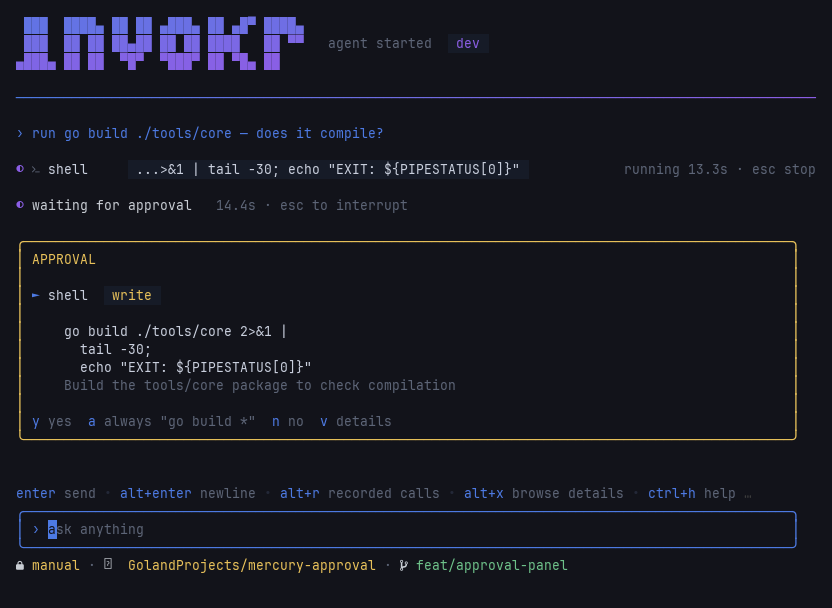
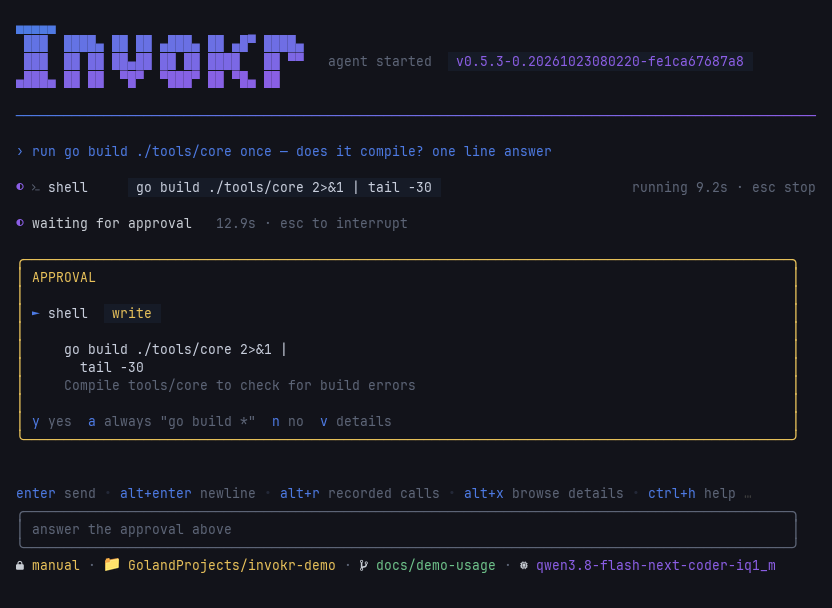
docs: re-record the README demo with the /usage panel (#26)
* docs(record): walk the /usage panel rows in the demo

* docs(record): handle CSI REP so overlays render, add a quick usage timeline

* docs: re-record the README demo with the /usage panel

* docs: mention /usage in the demo alt text

* docs(record): draw colour emoji from Noto Color Emoji

* docs: re-record the demo with the aligned /usage panel

diff --git a/docs/assets/record/record.py b/docs/assets/record/record.py
@@ -42,6 +42,11 @@ FONT_PATH = "/usr/share/fonts/TTF/JetBrainsMonoNerdFontMono-Regular.ttf"
 # .notdef box. Anything monospace that does have it works as a stand-in for the
 # handful of characters in that position.
 FALLBACK_FONT_PATH = "/usr/share/fonts/TTF/FiraCodeNerdFontMono-Regular.ttf"
+# Emoji in the status bar (📁 and friends) are in neither mono font. Noto Color
+# Emoji is a bitmap font that only loads at 109px, so its glyphs are drawn at
+# that size and scaled down into the cell.
+EMOJI_FONT_PATH = "/usr/share/fonts/noto/NotoColorEmoji.ttf"
+EMOJI_SIZE = 109
 FONT_SIZE = 13
 PAD = 16
 FRAME_MS = 100  # sample rate; a shared palette keeps even this cheap
@@ -101,8 +106,22 @@ SCRIPTS = {
         # those rows (a real terminal does not), so the demo skips past the
         # popup rather than pausing on a frame that misrenders here.
         (1.4, "/usage\r", True),         # run it
-        (5.0, None, True),                 # the per-category token breakdown, open
+        (2.5, None, True),                 # the per-category token breakdown, open
+        (0.9, "j", True),                  # walk the rows: the bar follows the cursor
+        (0.9, "j", True),
+        (0.9, "j", True),
+        (2.5, "j", True),                  # into history: the other group lights up
     ], 20.0),                              # still: the approval panel, open
+    # One tiny turn, then /usage: a quick check of how the panel renders.
+    "usage": ([
+        (2.0, None, False),
+        (0.5, "say hi in one word", False),
+        (0.5, "\r", False),
+        (120.0, None, False),
+        (2.0, "/usage\r", True),
+        (0.9, "j", True),
+        (2.0, "j", True),
+    ], 3.0),
 }
 RECORD = os.environ.get("RECORD", "demo")
 SCRIPT, STILL_AT = SCRIPTS[RECORD]
@@ -149,8 +168,17 @@ class Screen(pyte.Screen):
     later cell on the row lands a column early and the text overwrites itself.
     """
 
+    last_char = " "
+
     def draw(self, data):
-        super().draw(re.sub(".\ufe0f", lambda m: m[0][0] + (" " if wcwidth(m[0][0]) == 1 else ""), data))
+        data = re.sub(".\ufe0f", lambda m: m[0][0] + (" " if wcwidth(m[0][0]) == 1 else ""), data)
+        if data:
+            self.last_char = data[-1]
+        super().draw(data)
+
+    def repeat_last(self, count=None):
+        """CSI b (REP), which pyte lacks and bubbletea v2 uses for runs like a bar or a border."""
+        self.draw(self.last_char * (count or 1))
 
     def scroll_down(self, count=None):
         """CSI T, which pyte lacks: a reverse index at the top margin scrolls the region down."""
@@ -162,7 +190,7 @@ class Screen(pyte.Screen):
 
 
 class Stream(pyte.ByteStream):
-    csi = {**pyte.ByteStream.csi, "T": "scroll_down"}
+    csi = {**pyte.ByteStream.csi, "T": "scroll_down", "b": "repeat_last"}
 
 
 def run(command):
@@ -244,6 +272,34 @@ def glyph_font(char, font, fallback):
 NOTDEF = "\U000FFFFD"
 _GLYPH_FONT = {}
 FALLBACK = None
+EMOJI = None
+_MISSING = {}
+
+
+def missing(char, font):
+    """Whether font draws char as .notdef."""
+    key = (char, id(font))
+    if key not in _MISSING:
+        _MISSING[key] = bytes(font.getmask(char)) == bytes(font.getmask(NOTDEF))
+    return _MISSING[key]
+
+
+_EMOJI_CACHE = {}
+
+
+def paste_emoji(image, char, px, py, cell_w, cell_h):
+    """Draw a colour emoji two cells wide, scaled from Noto's fixed bitmap size."""
+    if char not in _EMOJI_CACHE:
+        glyph = Image.new("RGBA", (EMOJI_SIZE * 2, EMOJI_SIZE * 2), (0, 0, 0, 0))
+        ImageDraw.Draw(glyph).text((0, 0), char, font=EMOJI, embedded_color=True)
+        box = glyph.getbbox()
+        if box:
+            glyph = glyph.crop(box)
+        side = min(cell_h, 2 * cell_w) - 2
+        glyph.thumbnail((side, side), Image.LANCZOS)
+        _EMOJI_CACHE[char] = glyph
+    glyph = _EMOJI_CACHE[char]
+    image.paste(glyph, (px + 1, py + (cell_h - glyph.height) // 2), glyph)
 
 
 def draw(buffer, font, cell_w, cell_h, t=None):
@@ -259,7 +315,10 @@ def draw(buffer, font, cell_w, cell_h, t=None):
                 canvas.rectangle([px, py, px + cell_w, py + cell_h], fill=bg)
             if char.data.strip():
                 fg = BG if char.reverse else color(char.fg, FG)
-                canvas.text((px, py), char.data, font=glyph_font(char.data, font, FALLBACK), fill=fg)
+                if EMOJI and missing(char.data, font) and (FALLBACK is None or missing(char.data, FALLBACK)):
+                    paste_emoji(image, char.data, px, py, cell_w, cell_h)
+                else:
+                    canvas.text((px, py), char.data, font=glyph_font(char.data, font, FALLBACK), fill=fg)
     if t is not None:
         # A wall clock, drawn by the recorder rather than the program, so two
         # recordings of different builds share one timebase.
@@ -300,6 +359,9 @@ def main():
     font = ImageFont.truetype(FONT_PATH, FONT_SIZE)
     if os.path.exists(FALLBACK_FONT_PATH):
         FALLBACK = ImageFont.truetype(FALLBACK_FONT_PATH, FONT_SIZE)
+    global EMOJI
+    if os.path.exists(EMOJI_FONT_PATH):
+        EMOJI = ImageFont.truetype(EMOJI_FONT_PATH, EMOJI_SIZE)
     cell_w = round(font.getlength("M"))
     ascent, descent = font.getmetrics()
     cell_h = ascent + descent

diff --git a/README.md b/README.md
@@ -5,7 +5,7 @@
 [![CI](https://github.com/invokr-ai/invokr/actions/workflows/ci.yml/badge.svg)](https://github.com/invokr-ai/invokr/actions/workflows/ci.yml)
 [![E2E](https://github.com/invokr-ai/invokr/actions/workflows/e2e.yml/badge.svg)](https://github.com/invokr-ai/invokr/actions/workflows/e2e.yml)
 
-![Invokr TUI: a prompt, a tiered shell approval, and the answer](docs/assets/demo.gif)
+![Invokr TUI: a prompt, a tiered shell approval, the answer, and the /usage panel](docs/assets/demo.gif)
 
 ---
 
